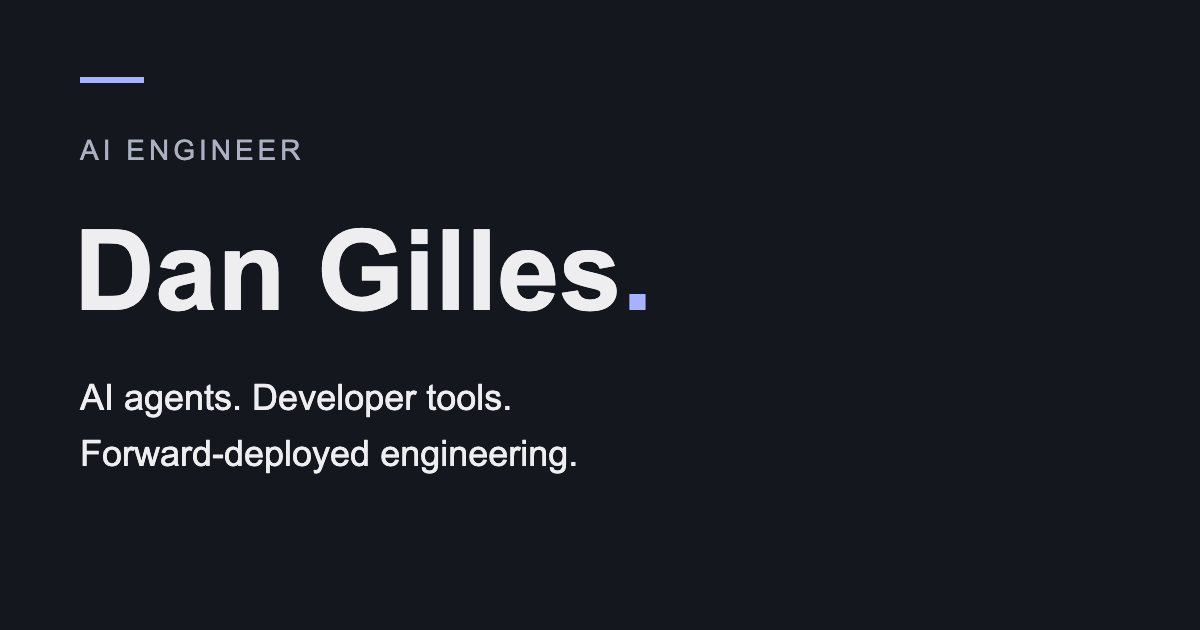
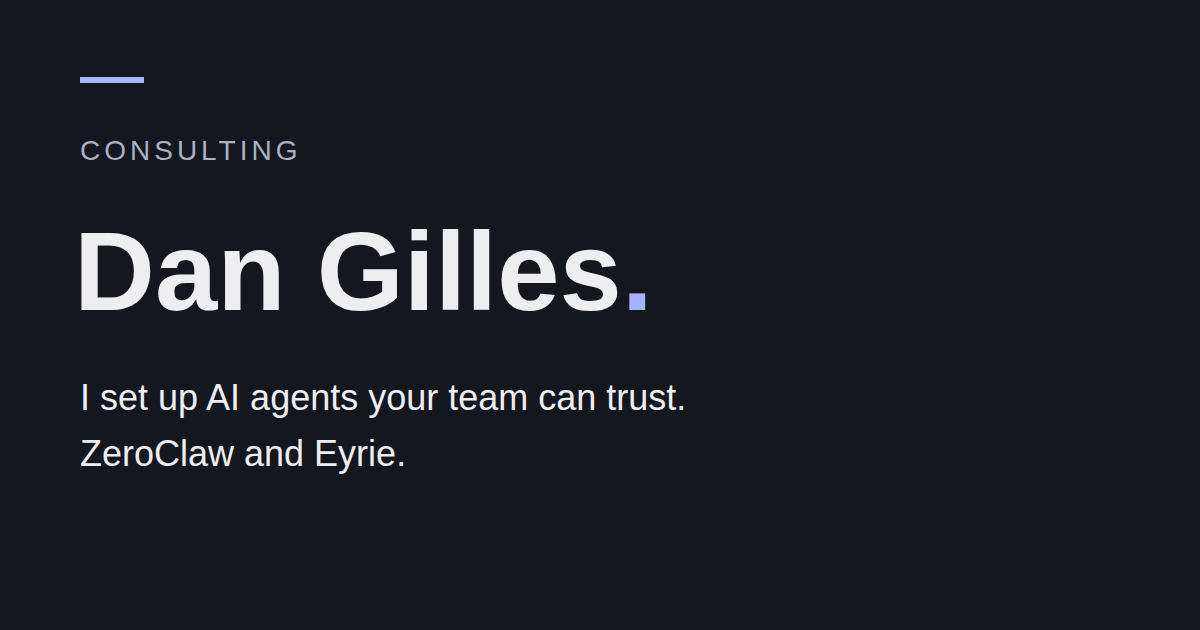
Fix dead links, sitemap, narrow layout, and consulting positioning (#24)
Replace the retired ZeroClaw URL, the private Maintainers link, and the ZeroCode typos. Add /offers/ and /now/ to the sitemap, keep the narrow layout from scrolling sideways, and use the approved consulting line in the hero and social metadata.

diff --git a/src/styles/global.css b/src/styles/global.css
@@ -198,9 +198,9 @@
   .signal-art.accent-flash .signal-grid { opacity: .7; }
   .hero-note .eyebrow { margin-bottom: .75rem; }
   .hero-note > p:not(.eyebrow) { font-size: 1.15rem; line-height: 1.5; letter-spacing: -.025em; margin-bottom: 1.75rem; }
-  .focus-item { display: flex; align-items: center; justify-content: space-between; gap: 1rem; font-size: .75rem; border-top: 1px solid var(--line); }
+  .focus-item { display: flex; align-items: center; justify-content: space-between; gap: 1rem; min-width: 0; font-size: .75rem; border-top: 1px solid var(--line); }
   .focus-item > span { color: var(--muted); }
-  .focus-link-group { display: flex; flex-direction: column; align-items: flex-start; gap: .25rem; }
+  .focus-link-group { display: flex; flex-direction: column; align-items: flex-start; gap: .25rem; min-width: 0; max-width: 100%; }
   .focus-item a { display: inline-flex; align-items: center; gap: .5rem; min-height: 44px; text-decoration: none; }
   .focus-item a:is(:hover, :focus-visible) { text-decoration: underline; }
   .project-card { position: relative; display: flex; flex-direction: column; min-width: 0; padding: 2rem; background: var(--surface); border: 1px solid var(--line); border-radius: 10px; }
@@ -214,10 +214,10 @@
   .project-card.featured .card-topline { grid-column: 1 / -1; }
   .project-card.featured h3 { font-size: clamp(3rem, 5vw, 4.5rem); letter-spacing: -.055em; }
   .project-card.featured .project-oneliner { font-size: clamp(1.1rem, 1.6vw, 1.3rem); }
-  .card-topline { display: flex; align-items: center; justify-content: space-between; gap: 1rem; margin-bottom: 2rem; }
+  .card-topline { display: flex; flex-wrap: wrap; align-items: center; justify-content: space-between; gap: .5rem 1rem; margin-bottom: 2rem; }
   .project-index { font-family: var(--mono); font-size: .72rem; color: var(--muted); }
   .project-card.featured .project-index::after { content: ' / FEATURED'; font-size: .6rem; letter-spacing: .04em; color: var(--accent-text); }
-  .status { display: inline-flex; align-items: center; gap: .4rem; color: var(--muted); font-family: var(--mono); font-size: .65rem; border: 1px solid var(--line); border-radius: 999px; padding: .3rem .6rem; background: var(--surface); line-height: 1.4; }
+  .status { display: inline-flex; align-items: center; gap: .4rem; max-width: 100%; color: var(--muted); font-family: var(--mono); font-size: .65rem; border: 1px solid var(--line); border-radius: 999px; padding: .3rem .6rem; background: var(--surface); line-height: 1.4; white-space: normal; overflow-wrap: anywhere; }
   .status > span { width: 5px; height: 5px; border: 1px solid currentColor; border-radius: 50%; flex-shrink: 0; }
   .status[data-status='verified'] > span { background: var(--accent); border-color: var(--accent); }
   .status[data-status='demo-down'] > span { border-radius: 1px; }
@@ -262,6 +262,7 @@
   .cache-values span[aria-hidden] { color: var(--accent-text); font-weight: 300; padding-inline: .2rem; }
   .cache-result > p:last-child { margin-top: .75rem; font-size: .8rem; color: var(--muted); }
   .text-link { display: inline-block; font-size: .82rem; padding-block: .65rem; }
+  .maintainer-note { margin-top: .35rem; color: var(--muted); font-size: .82rem; }
   .pr-list { list-style: none; padding: 0; }
   .pr-card { display: block; padding: 1.4rem .75rem; border-top: 1px solid var(--line); text-decoration: none; border-radius: 3px; }
   .pr-list li:last-child .pr-card { border-bottom: 1px solid var(--line); }
@@ -344,10 +345,11 @@
   @media (max-width: 760px) {
     .container { width: calc(100% - 2.5rem); }
     .site-header { flex-wrap: wrap; gap: .5rem 1rem; padding-block: .8rem .4rem; }
-    .site-header nav { order: 3; flex-basis: 100%; flex-wrap: wrap; margin-left: 0; justify-content: space-between; gap: .5rem; font-size: .78rem; }
+    .site-header nav { order: 3; flex-basis: 100%; flex-wrap: wrap; margin-left: 0; justify-content: flex-start; gap: .15rem 1rem; font-size: .78rem; min-width: 0; }
+    .wordmark, .hero, .hero-intro, .hero-note, .project-card, .project-card-content { min-width: 0; }
     .theme-control { margin-left: auto; }
     .hero { grid-template-columns: 1fr; padding-block: 2.5rem 2rem; gap: 2rem; }
-    .hero h1 { max-width: 620px; font-size: clamp(3.25rem, 9vw, 4.75rem); }
+    .hero h1 { max-width: 100%; font-size: clamp(2.35rem, 8vw, 4.25rem); letter-spacing: -.05em; }
     .hero .eyebrow { font-size: .65rem; }
     .hero-note { display: grid; grid-template-columns: 1fr 1fr; gap: 0 1rem; padding: 1rem 1.25rem .25rem; border: 1px solid var(--line); border-radius: 6px; margin: 0; background: var(--surface); }
     .hero-note .signal-art, .hero-note > p:not(.eyebrow) { display: none; }
@@ -364,7 +366,7 @@
     .project-grid { grid-template-columns: 1fr; gap: 1rem; }
     .project-card { padding: 1.5rem; }
     .project-card.featured { display: flex; align-items: stretch; gap: 0; }
-    .project-card.featured h3 { font-size: 2.75rem; }
+    .project-card.featured h3 { font-size: clamp(2rem, 7vw, 2.75rem); }
     .project-card.featured .project-card-media { margin-top: 1.5rem; }
     .card-topline { margin-bottom: 1.5rem; }
     .project-card h3 { font-size: 1.8rem; }
@@ -375,11 +377,29 @@
     .contact-section { padding-bottom: 4rem; }
     .site-footer { font-size: .7rem; gap: .5rem 1rem; }
   }
-  @media (max-width: 360px) {
-    .container { width: calc(100% - 2rem); }
+  @media (max-width: 420px) {
+    .container { width: calc(100% - 1.75rem); }
+    .site-header { gap: .35rem .6rem; }
+    .site-header nav { font-size: .74rem; gap: .1rem .4rem; }
+    .desktop-toggle-control { margin-left: auto; }
+    .hero { padding-block: 1.75rem 1.5rem; gap: 1.25rem; }
+    .hero h1, h1 { font-size: clamp(1.9rem, 8.2vw, 2.25rem); letter-spacing: -.04em; }
+    .hero .eyebrow { margin-bottom: 1rem; }
+    .hero-pitch { margin-top: 1rem; font-size: 1rem; }
+    .hero-actions .button { gap: .7rem; padding: .65rem .9rem; }
+    .hero-note { grid-template-columns: minmax(0, 1fr); }
     .project-card { padding: 1.15rem; }
-    .site-header nav { font-size: .7rem; }
-    .hero h1 { font-size: 2.9rem; }
+    .project-card.featured h3 { font-size: clamp(1.65rem, 7.5vw, 2rem); }
+    .project-card h3 { font-size: 1.45rem; }
+    .cache-values { white-space: normal; }
+    .contact-section h2 { font-size: clamp(1.85rem, 9vw, 2.35rem); }
+  }
+  @media (max-width: 360px) {
+    .container { width: calc(100% - 1.5rem); }
+    .project-card { padding: 1rem; }
+    .site-header nav { font-size: .7rem; gap: .05rem .55rem; }
+    .hero h1, h1 { font-size: 1.85rem; }
+    .project-card.featured h3 { font-size: 1.6rem; }
     .card-topline { gap: .4rem; }
     .project-card.featured .project-index::after { font-size: .5rem; }
   }

diff --git a/src/pages/sitemap.xml.ts b/src/pages/sitemap.xml.ts
@@ -4,7 +4,7 @@ import { projects } from '../data/content';
 // Include generated project pages. Exclude the noindex 404 page.
 export const GET: APIRoute = ({ site }) => {
   const base = import.meta.env.BASE_URL;
-  const entries = [base, `${base}resume/`, `${base}art/`, ...projects.map((project) => `${base}projects/${project.id}/`)]
+  const entries = [base, `${base}offers/`, `${base}now/`, `${base}resume/`, `${base}art/`, ...projects.map((project) => `${base}projects/${project.id}/`)]
     .map((path) => new URL(path, site).href)
     .map((url) => `<url><loc>${url.replaceAll('&', '&amp;').replaceAll('<', '&lt;').replaceAll('"', '&quot;')}</loc></url>`)
     .join('');

diff --git a/PASS_NOTES.md b/PASS_NOTES.md
@@ -713,3 +713,23 @@ No server, browser, download, or Lighthouse run was started. Print appearance an
 - Pages: 14 built successfully
 - Links: 534 checked and valid
 
+## Audit: links, sitemap, narrow layout, and consulting positioning
+
+`facts.md` is not in this workspace, so `experience.json` and the resume were left unchanged. Offer package names, prices, and the consulting-strip package paragraph were not edited.
+
+- Homepage terminal and desktop terminal now link to `https://github.com/zeroclaw-labs/zeroclaw`.
+- The private Maintainers URL is plain text: "Member of the GitHub Maintainers community."
+- The two ZeroCode blurbs now say ZeroClaw.
+- `sitemap.xml` includes `/offers/` and `/now/` after the home page.
+- Below 420px the hero and featured titles are smaller, the nav stays on one row at 360–400px, and repo-pulse pills can wrap inside their column.
+- Homepage hero, default title, meta description, Open Graph and Twitter title, description, and image alt, contact line, and the desktop About window use "I set up AI agents your team can trust." The primary CTA goes to `/offers/`. ZeroClaw and Eyrie stay as supporting proof.
+
+Validation:
+
+- `ASTRO_TELEMETRY_DISABLED=1 npm run build` completed with astro check at 0 errors, 0 warnings, and 0 hints, 14 pages, and 552 local references. A later nav-gap rebuild used `astro build` plus `npm run check:links` (552 references).
+- `npm test` passed all 14 tests against that build, with no skips. Built-output checks now count project cards only, look for empty Model Picker links inside `<main>`, and match `/Users/` case-sensitively so the GitHub API path `/users/` is not treated as a local path.
+- Built HTML has no `ZeroCode`, `github.com/ZeroClaw/zeroclaw`, or `github.com/community/maintainers`. HEAD requests for the GitHub links in the built pages returned 200.
+- Chrome at 360, 375, 400, and 760px: homepage `scrollWidth` equaled `clientWidth`. `/offers/` at 375px matched as well. The visible primary CTA opened `/offers/`.
+- The build's pulse fetch updated `src/data/repo-pulse.json`; that file was restored so this pass does not include an unrelated refresh. CI fetches pulse during build.
+- No Lighthouse run. A local static server was used only to measure overflow and capture the requested screenshots.
+

diff --git a/README.md b/README.md
@@ -105,7 +105,7 @@ For another repository subpath, set `PUBLIC_BASE_PATH` to its path with leading 
 
 Use the same environment variables for `dev`, `build`, and `preview`. For example, after the root build above, run `PUBLIC_BASE_PATH=/ npm run preview` and open the root URL printed by Astro. Internal assets and the resume link use Astro's base URL.
 
-Canonical URLs, Open Graph and Twitter image URLs, `sitemap.xml`, and `robots.txt` use these settings. The sitemap lists the home page, resume, and all visible project pages. The custom `404.html` has `noindex` and links back to the portfolio.
+Canonical URLs, Open Graph and Twitter image URLs, `sitemap.xml`, and `robots.txt` use these settings. The sitemap lists the home page, offers, now, resume, art, and all visible project pages. The custom `404.html` has `noindex` and links back to the portfolio.
 
 Search engines read `robots.txt` at the origin root. A root build includes it there. A subpath build includes it under that path; before any approved publication, the host's root `robots.txt` must point to the subpath sitemap. The host must also serve `404.html` for missing pages with HTTP status 404.
 
